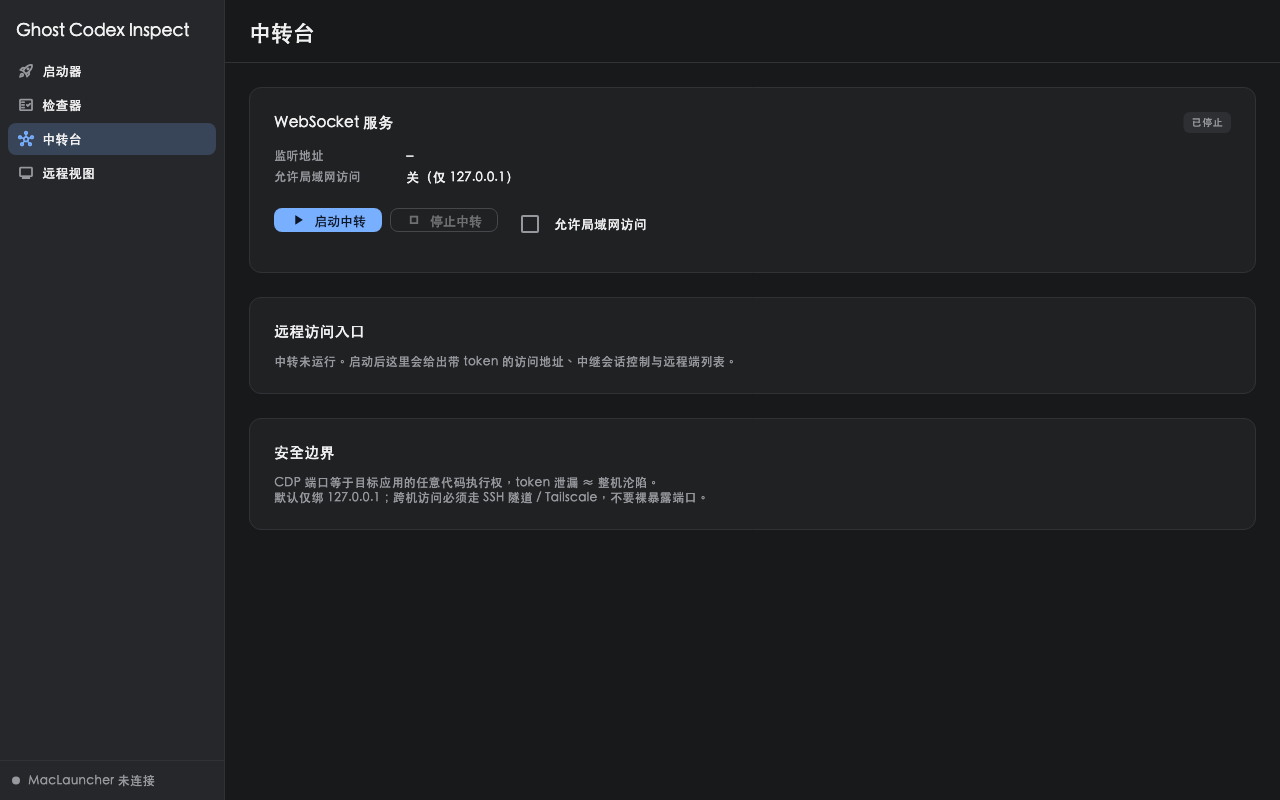
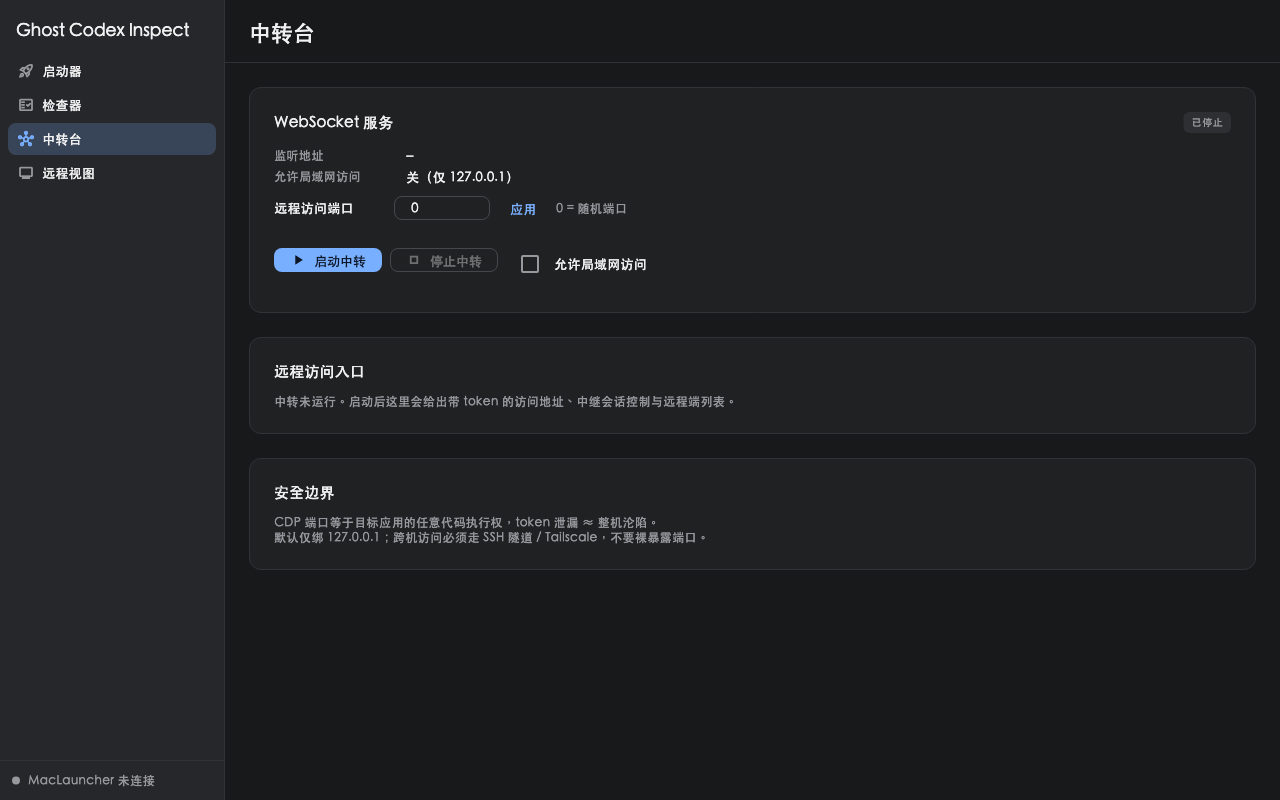
feat(#26): 中转远程访问端口可配置并持久化
- RelayServer.start 本支持 port 参数；LauncherConnection.startRelay 透传
- HostController.relayPort：默认 0（随机），可固定并持久化
  （gci.relayPort），loadSettings 恢复；中转运行中修改下次启动生效
- 中转台服务卡加「远程访问端口」编辑行（运行中禁用）
- 场景：两个 Ghost Codex Inspect 实例并存时各配固定端口，互不冲突
- 1 个新单测（默认/固定/持久化/非法校验）；golden 重生成

Changed region(s): [[0.2188, 0.5625, 0.5625, 0.6875], [0.2188, 0.4062, 0.5625, 0.5312], [0.1875, 0.25, 0.5, 0.3438]]

diff --git a/lib/ui/relay_page.dart b/lib/ui/relay_page.dart
@@ -81,6 +81,7 @@ class _ServerCard extends StatelessWidget {
             label: '允许局域网访问',
             value: controller.allowLanAccess ? '开（绑 LAN IP）' : '关（仅 127.0.0.1）',
           ),
+          _RelayPortEditor(controller: controller, running: running),
           const SizedBox(height: 12),
           Wrap(
             spacing: 8,
@@ -511,6 +512,80 @@ class _VideoCapsCard extends StatelessWidget {
           ),
         ],
       ),
+    );
+  }
+}
+
+/// 中转端口编辑行（#26）：0=随机（默认），固定端口供多实例并存。
+/// 中转运行中修改会在下次启动中转时生效。
+class _RelayPortEditor extends StatefulWidget {
+  const _RelayPortEditor({required this.controller, required this.running});
+
+  final HostController controller;
+  final bool running;
+
+  @override
+  State<_RelayPortEditor> createState() => _RelayPortEditorState();
+}
+
+class _RelayPortEditorState extends State<_RelayPortEditor> {
+  late final TextEditingController _text =
+      TextEditingController(text: '${widget.controller.relayPort}');
+  String? _error;
+
+  @override
+  void dispose() {
+    _text.dispose();
+    super.dispose();
+  }
+
+  Future<void> _apply() async {
+    final port = int.tryParse(_text.text.trim());
+    if (port == null || (port != 0 && (port < 1024 || port > 65535))) {
+      setState(() => _error = '0（随机）或 1024-65535');
+      return;
+    }
+    await widget.controller.setRelayPort(port);
+    setState(() => _error = null);
+  }
+
+  @override
+  Widget build(BuildContext context) {
+    final theme = Theme.of(context);
+    return Row(
+      children: [
+        SizedBox(
+          width: 120,
+          child: Text('远程访问端口', style: theme.textTheme.bodyMedium),
+        ),
+        SizedBox(
+          width: 96,
+          child: TextField(
+            controller: _text,
+            enabled: !widget.running,
+            keyboardType: TextInputType.number,
+            style: theme.textTheme.bodyMedium,
+            decoration: InputDecoration(
+              isDense: true,
+              errorText: _error,
+              border: const OutlineInputBorder(),
+            ),
+            onSubmitted: (_) => _apply(),
+          ),
+        ),
+        const SizedBox(width: 8),
+        TextButton(
+          onPressed: widget.running ? null : _apply,
+          child: const Text('应用'),
+        ),
+        const SizedBox(width: 8),
+        Expanded(
+          child: Text(
+            widget.running ? '运行中不可改；停止中转后可修改' : '0 = 随机端口',
+            style: theme.textTheme.bodySmall,
+          ),
+        ),
+      ],
     );
   }
 }

diff --git a/lib/ui/host_controller.dart b/lib/ui/host_controller.dart
@@ -114,6 +114,7 @@ class HostController extends ChangeNotifier {
 
   /// 生效调试端口：profile 默认值，loadSettings() 可覆盖，UI 可改。
   static const String _kDebugPortKey = 'gci.debugPort';
+  static const String _kRelayPortKey = 'gci.relayPort';
 
   /// 当前使用的 CDP 调试端口（可在启动器页修改并持久化，#26）。
   int get debugPort => _debugPort;
@@ -130,14 +131,36 @@ class HostController extends ChangeNotifier {
     await prefs.setInt(_kDebugPortKey, port);
   }
 
+  /// 中转台远程访问端口：0 = 随机（默认），否则固定（多实例并存时
+  /// 各配不同端口，#26）。
+  int get relayPort => _relayPort;
+  int _relayPort = 0;
+
+  /// 修改中转端口（0 或 1024-65535），持久化到本机设置。
+  /// 中转运行中修改会在下次启动中转时生效。
+  Future<void> setRelayPort(int port) async {
+    if (port != 0 && (port < 1024 || port > 65535)) {
+      throw ArgumentError('端口须是 0（随机）或 1024-65535：$port');
+    }
+    _relayPort = port;
+    notifyListeners();
+    final prefs = await SharedPreferences.getInstance();
+    await prefs.setInt(_kRelayPortKey, port);
+  }
+
   /// 启动时加载持久化设置（端口等）。
   Future<void> loadSettings() async {
     final prefs = await SharedPreferences.getInstance();
     final port = prefs.getInt(_kDebugPortKey);
     if (port != null && port >= 1024 && port <= 65535) {
       _debugPort = port;
-      notifyListeners();
     }
+    final relayPort = prefs.getInt(_kRelayPortKey);
+    if (relayPort != null &&
+        (relayPort == 0 || (relayPort >= 1024 && relayPort <= 65535))) {
+      _relayPort = relayPort;
+    }
+    notifyListeners();
   }
 
   Future<void> _run(String action, Future<void> Function() body) async {
@@ -222,7 +245,7 @@ class HostController extends ChangeNotifier {
 
   /// 启动中转（默认绑 127.0.0.1）。
   Future<void> startRelay() => _run('启动中转', () async {
-    await launcher.startRelay(allowLanAccess: allowLanAccess);
+    await launcher.startRelay(allowLanAccess: allowLanAccess, port: _relayPort);
     // 顺带探测编码能力（#25），驱动中转台矩阵与视频设置可用性
     await refreshVideoCapabilities();
   });
@@ -239,7 +262,7 @@ class HostController extends ChangeNotifier {
     if (launcher.relay.isRunning) {
       if (sessionKind != SessionKind.none) await stopSession();
       await launcher.stopRelay();
-      await launcher.startRelay(allowLanAccess: allowLanAccess);
+      await launcher.startRelay(allowLanAccess: allowLanAccess, port: _relayPort);
     }
   });
 

diff --git a/test/ui/host_controller_test.dart b/test/ui/host_controller_test.dart
@@ -219,6 +219,26 @@ void main() {
       expect(() => c.setDebugPort(70000), throwsArgumentError);
     });
 
+    test('中转端口：默认随机(0)，可固定并持久化', () async {
+      SharedPreferences.setMockInitialValues({});
+      final c = HostController(autoRefresh: false);
+      addTearDown(c.dispose);
+      expect(c.relayPort, 0);
+      await c.setRelayPort(9410);
+      expect(c.relayPort, 9410);
+      final prefs = await SharedPreferences.getInstance();
+      expect(prefs.getInt('gci.relayPort'), 9410);
+      expect(() => c.setRelayPort(80), throwsArgumentError);
+      await c.setRelayPort(0);
+      expect(c.relayPort, 0);
+
+      SharedPreferences.setMockInitialValues({'gci.relayPort': 9411});
+      final c2 = HostController(autoRefresh: false);
+      addTearDown(c2.dispose);
+      await c2.loadSettings();
+      expect(c2.relayPort, 9411);
+    });
+
     test('loadSettings 读取持久化端口，非法值回落默认', () async {
       SharedPreferences.setMockInitialValues({'gci.debugPort': 9301});
       final c = HostController(autoRefresh: false);

diff --git a/lib/sdk/launcher_connection.dart b/lib/sdk/launcher_connection.dart
@@ -31,8 +31,8 @@ class LauncherConnection {
 
   /// 启动中转（宿主 UI 入口）。默认绑 127.0.0.1；[allowLanAccess] 为
   /// 「允许局域网访问」开关，打开时绑 LAN 网卡 IPv4，绝不绑 0.0.0.0。
-  Future<void> startRelay({bool allowLanAccess = false}) =>
-      _relay.start(allowLanAccess: allowLanAccess);
+  Future<void> startRelay({bool allowLanAccess = false, int port = 0}) =>
+      _relay.start(allowLanAccess: allowLanAccess, port: port);
 
   /// 停止中转（宿主 UI 入口）：回收端口、踢掉远程端，不退出进程。
   Future<void> stopRelay() => _relay.stop();
